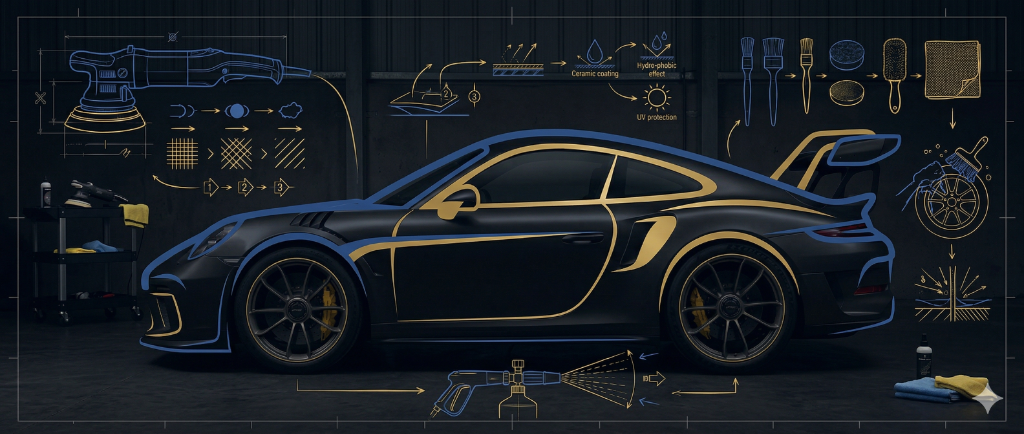
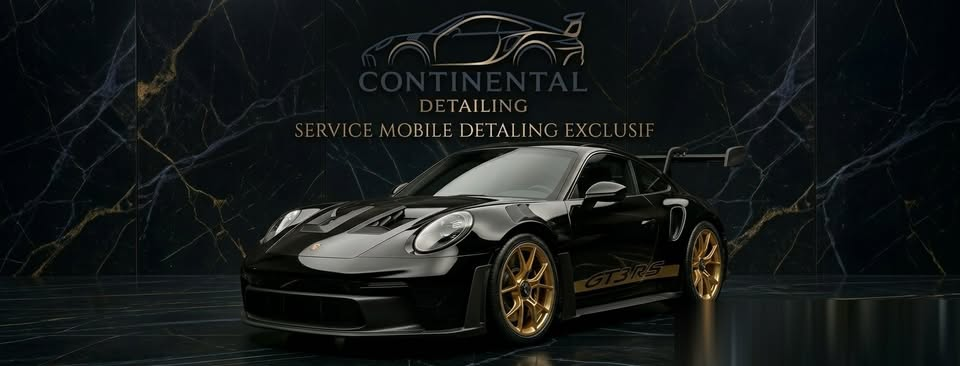
feat: hero background Porsche GT3RS marbre noir - Continental Detailing branding

diff --git a/index.html b/index.html
@@ -72,8 +72,8 @@
     <!-- Hero Section -->
     <header class="relative pt-28 pb-24 lg:pt-40 lg:pb-32 overflow-hidden">
         <div class="absolute inset-0 z-0">
-            <img src="images/hero-bg.png" alt="Continental Detailing" class="w-full h-full object-cover opacity-60 parallax-bg">
-            <div class="absolute inset-0 bg-gradient-to-t from-primary via-primary/60 to-primary/30"></div>
+            <img src="images/hero-bg.png" alt="Continental Detailing" class="w-full h-full object-cover opacity-80 parallax-bg">
+            <div class="absolute inset-0 bg-gradient-to-t from-primary via-primary/50 to-transparent"></div>
         </div>
 
         <div class="relative z-10 max-w-7xl mx-auto px-4 sm:px-6 lg:px-8 text-center">